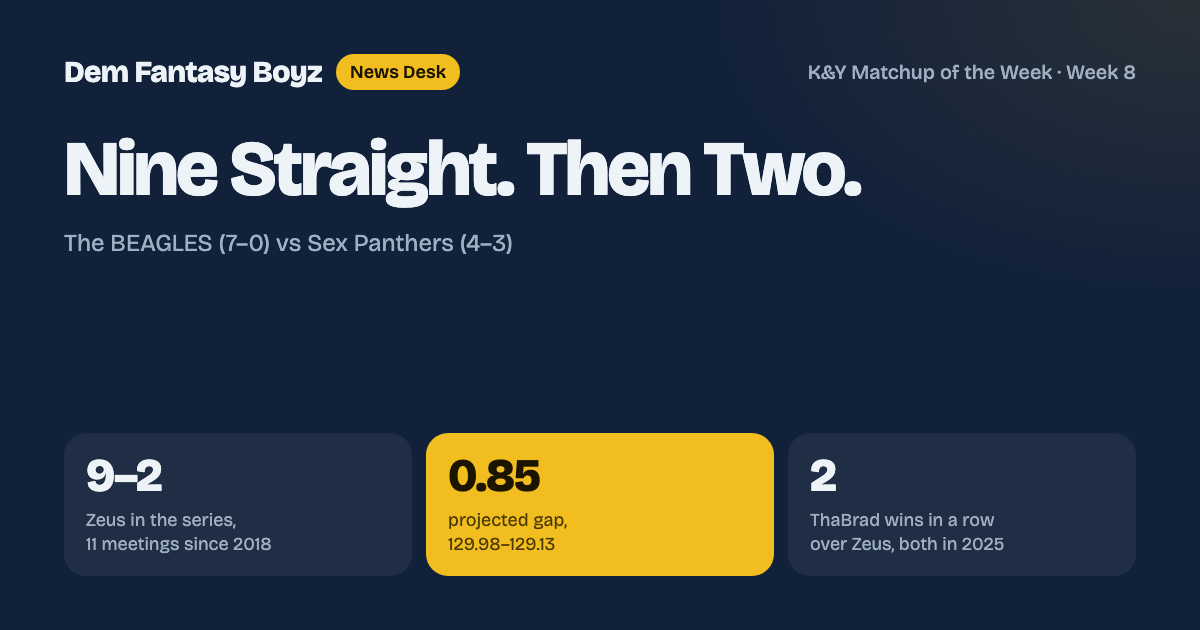
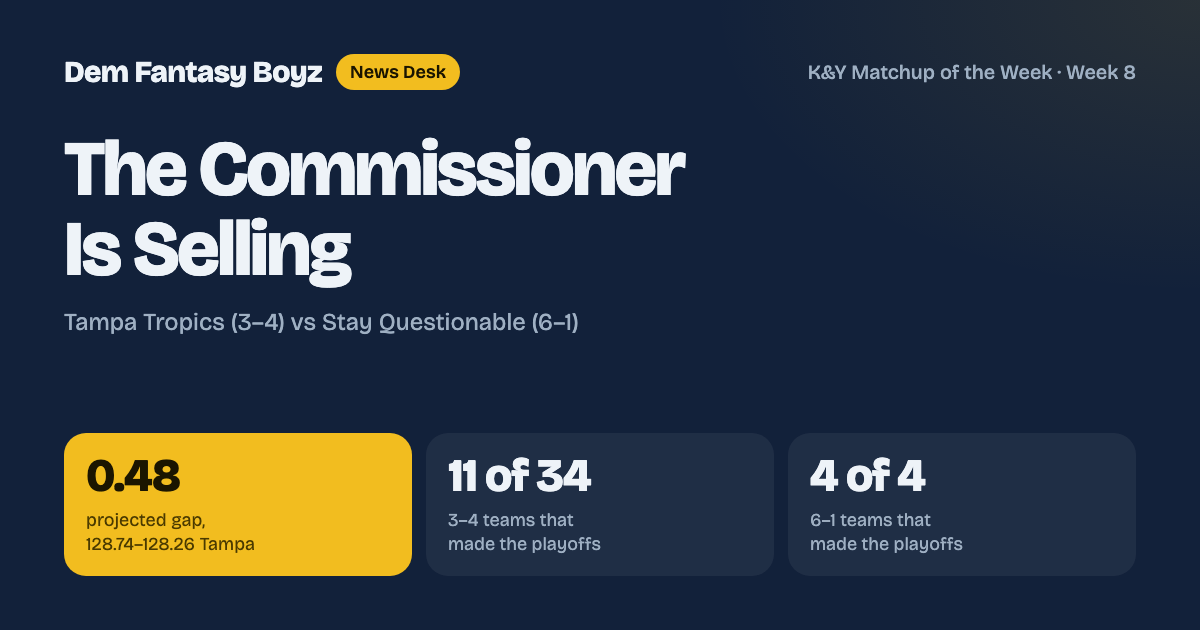
News desk: Week 8 K&Y switched to Tampa Tropics vs Stay Questionable

diff --git a/dfb/wk8-ky-matchup.html b/dfb/wk8-ky-matchup.html
@@ -4,17 +4,17 @@
 <meta charset="utf-8">
 <meta name="viewport" content="width=device-width, initial-scale=1">
 <meta name="robots" content="noindex">
-<title>Nine Straight. Then Two. &mdash; Dem Fantasy Boyz</title>
-<meta name="description" content="K&amp;Y Matchup of the Week: The BEAGLES (7-0) vs Sex Panthers (4-3), 0.85 points apart. Zeus won the first nine meetings; ThaBrad won the last two.">
+<title>The Commissioner Is Selling &mdash; Dem Fantasy Boyz</title>
+<meta name="description" content="K&amp;Y Matchup of the Week: Tampa Tropics (3-4) vs Stay Questionable (6-1), 0.48 points apart. The commissioner is selling; Deion is winning quietly.">
 <meta property="og:type" content="article">
-<meta property="og:title" content="Nine Straight. Then Two.">
-<meta property="og:description" content="K&amp;Y Matchup of the Week: The BEAGLES (7-0) vs Sex Panthers (4-3), 0.85 points apart. Zeus won the first nine meetings; ThaBrad won the last two.">
+<meta property="og:title" content="The Commissioner Is Selling">
+<meta property="og:description" content="K&amp;Y Matchup of the Week: Tampa Tropics (3-4) vs Stay Questionable (6-1), 0.48 points apart. The commissioner is selling; Deion is winning quietly.">
 <meta property="og:url" content="https://goonscrubbih.github.io/dfb/wk8-ky-matchup.html">
-<meta property="og:image" content="https://goonscrubbih.github.io/dfb/img/wk8-ky-matchup.png?v=1">
+<meta property="og:image" content="https://goonscrubbih.github.io/dfb/img/wk8-ky-matchup.png?v=2">
 <meta name="twitter:card" content="summary_large_image">
-<meta name="twitter:title" content="Nine Straight. Then Two.">
-<meta name="twitter:description" content="K&amp;Y Matchup of the Week: The BEAGLES (7-0) vs Sex Panthers (4-3), 0.85 points apart. Zeus won the first nine meetings; ThaBrad won the last two.">
-<meta name="twitter:image" content="https://goonscrubbih.github.io/dfb/img/wk8-ky-matchup.png?v=1">
+<meta name="twitter:title" content="The Commissioner Is Selling">
+<meta name="twitter:description" content="K&amp;Y Matchup of the Week: Tampa Tropics (3-4) vs Stay Questionable (6-1), 0.48 points apart. The commissioner is selling; Deion is winning quietly.">
+<meta name="twitter:image" content="https://goonscrubbih.github.io/dfb/img/wk8-ky-matchup.png?v=2">
 <meta name="theme-color" content="#EDF1F5" media="(prefers-color-scheme: light)">
 <meta name="theme-color" content="#0E1622" media="(prefers-color-scheme: dark)">
 <link rel="preconnect" href="https://fonts.googleapis.com">
@@ -33,118 +33,114 @@
 <!-- ============ CONTENT STARTS ============ -->
 <div class="hed">
   <span class="chip flag">K&amp;Y Matchup of the Week &middot; Week 8</span>
-  <h1>Nine Straight. Then Two.</h1>
-  <p class="dek">The BEAGLES are 7&ndash;0, and Zeus has beaten ThaBrad nine of the eleven times they've played. ThaBrad won both games last season. This week the projections have them <em>0.85 points</em> apart.</p>
-  <div class="by"><b>Oct 29, 2026</b><span>The BEAGLES (7&ndash;0) vs Sex Panthers (4&ndash;3)</span><span>Week 8 preview</span></div>
+  <h1>The Commissioner Is Selling</h1>
+  <p class="dek">Jarbelo started 3&ndash;0, lost four straight and put his whole team up for trade. Deion is 6&ndash;1 and says nobody's noticed. The projections have them <em>0.48 points</em> apart.</p>
+  <div class="by"><b>Oct 29, 2026</b><span>Tampa Tropics (3&ndash;4) vs Stay Questionable (6&ndash;1)</span><span>Week 8 preview</span></div>
 </div>
 
-<p>On Tuesday Jarbelo put his whole team up for sale, and Zeus told him to be realistic: "If [ThaBrad] is ahead of you in table you might be looking to next year." ThaBrad answered a minute later: "It's my year baby!"</p>
+<p>Tuesday, a few minutes after the Week 7 recap went up, the commissioner posted: "Still looking to flip the whole team." Then: "Send trades." Then he pitched ThaBrad directly: "[ThaBrad] fleece me," "I can help you win," "Whatever you want man," and finally "Down to trade everyone."</p>
 
-<p>Zeus wasn't really insulting him. He meant it as a compliment, and added: "he acc has heavy hitters w CD Higgins Kittle." Then the catch: "Needs to sort out that RB situation tho." Sunday, Zeus gets to test both claims himself. The unbeaten team plays a 4&ndash;3 team that has won three of its last four, and the projections can't separate them.</p>
+<p>The same minute, Deion posted about his own team: "Your boy sliding up that leader board under the radar." On Sunday the two of them play each other, and the projections can't pick a winner.</p>
 
 <div class="stats">
-  <div class="stat flag"><b>9&ndash;2</b><span>Zeus in the all-time series, 11 meetings since 2018</span></div>
-  <div class="stat"><b>0.85</b><span>projected gap, 129.98&ndash;129.13 BEAGLES (Sleeper and ESPN averaged)</span></div>
-  <div class="stat"><b>0.03</b><span>between the two Panthers playing tonight: Coker 15.24, McMillan 15.21</span></div>
-  <div class="stat"><b>10.28</b><span>Zeus's smallest winning margin this season</span></div>
+  <div class="stat flag"><b>0.48</b><span>projected gap, 128.74&ndash;128.26 Tampa (Sleeper and ESPN averaged)</span></div>
+  <div class="stat"><b>11 of 34</b><span>teams that were 3&ndash;4 after Week 7 and made the playoffs, 2016&ndash;2025</span></div>
+  <div class="stat"><b>4 of 4</b><span>teams that were 6&ndash;1 after Week 7 and made the playoffs</span></div>
+  <div class="stat"><b>47</b><span>Tampa roster moves this season, the most in the league. Deion: 17.</span></div>
 </div>
 
 <h2>The fight card</h2>
 <div class="card-tbl">
   <table class="tbl">
-    <thead><tr><th>Slot</th><th>The BEAGLES</th><th class="r">Proj</th><th>Sex Panthers</th><th class="r">Proj</th></tr></thead>
+    <thead><tr><th>Slot</th><th>Tampa Tropics</th><th class="r">Proj</th><th>Stay Questionable</th><th class="r">Proj</th></tr></thead>
     <tbody>
-      <tr><td>QB</td><td>J. Allen</td><td class="r">24.1</td><td>J. Brissett</td><td class="r">17.1</td></tr>
-      <tr><td>RB</td><td>J. Warren</td><td class="r">15.4</td><td>J. Cook</td><td class="r">17.5</td></tr>
-      <tr><td>RB</td><td>O. Gordon</td><td class="r">13.7</td><td>B. Corum</td><td class="r">9.5</td></tr>
-      <tr><td>WR</td><td>J. Coker &dagger;</td><td class="r">15.2</td><td>C. Lamb</td><td class="r">21.2</td></tr>
-      <tr><td>WR</td><td>DJ Moore (Q)</td><td class="r">14.1</td><td>T. McMillan &dagger;</td><td class="r">15.2</td></tr>
-      <tr><td>TE</td><td>D. Goedert</td><td class="r">10.1</td><td>P. Freiermuth</td><td class="r">9.0</td></tr>
-      <tr><td>FLEX</td><td>J. Coleman</td><td class="r">8.8</td><td>T. Higgins</td><td class="r">15.8</td></tr>
-      <tr><td>FLEX</td><td>R. Stevenson</td><td class="r">11.9</td><td>C. Godwin</td><td class="r">9.6</td></tr>
-      <tr><td>K</td><td>W. Reichard</td><td class="r">9.3</td><td>T. Bass</td><td class="r">8.0</td></tr>
-      <tr><td>DEF</td><td>Seattle</td><td class="r">7.3</td><td>NY Jets</td><td class="r">6.4</td></tr>
-      <tr><td class="team">Total</td><td></td><td class="r team">129.98</td><td></td><td class="r team">129.13</td></tr>
-      <tr><td><em>Bench</em></td><td><em>D. Smith (Q)</em></td><td class="r"><em>13.5</em></td><td><em>R. Dowdle</em></td><td class="r"><em>9.1</em></td></tr>
+      <tr><td>QB</td><td>D. Prescott</td><td class="r">21.1</td><td>J. Burrow</td><td class="r">21.8</td></tr>
+      <tr><td>RB</td><td>B. Hall (Q)</td><td class="r">13.3</td><td>B. Robinson</td><td class="r">20.1</td></tr>
+      <tr><td>RB</td><td>B. Tuten</td><td class="r">14.5</td><td>J. Williams</td><td class="r">19.4</td></tr>
+      <tr><td>WR</td><td>C. Tate (Q)</td><td class="r">12.8</td><td>A. Williams</td><td class="r">8.0</td></tr>
+      <tr><td>WR</td><td>M. Golden (Q) &dagger;</td><td class="r">14.4</td><td>DK Metcalf</td><td class="r">11.9</td></tr>
+      <tr><td>TE</td><td>S. LaPorta</td><td class="r">10.9</td><td>M. Andrews</td><td class="r">9.3</td></tr>
+      <tr><td>FLEX</td><td>L. Burden</td><td class="r">12.9</td><td>B. Strange</td><td class="r">10.4</td></tr>
+      <tr><td>FLEX</td><td>J. Love (Q)</td><td class="r">10.5</td><td>Q. Judkins</td><td class="r">10.7</td></tr>
+      <tr><td>K</td><td>S. Shrader</td><td class="r">9.1</td><td>T. Loop</td><td class="r">7.8</td></tr>
+      <tr><td>DEF</td><td>New England</td><td class="r">9.2</td><td>Pittsburgh</td><td class="r">8.9</td></tr>
+      <tr><td class="team">Total</td><td></td><td class="r team">128.74</td><td></td><td class="r team">128.26</td></tr>
+      <tr><td><em>Bench</em></td><td><em>M. Wilson (Q)</em></td><td class="r"><em>14.2</em></td><td><em>K. Bourne</em></td><td class="r"><em>8.9</em></td></tr>
     </tbody>
   </table>
 </div>
-<p class="fcap">Lineups as set at 11:50 a.m. Thursday. Each projection is the average of Sleeper's and ESPN's Week 8 PPR projections; kickers and defenses use Sleeper's only. &dagger; Plays tonight, Carolina at Green Bay. Rows round to one decimal; totals don't. (Q) is questionable. Bench row is each team's best healthy backup. On bye: McCaffrey for Zeus; Kittle, Stroud and Marvin Harrison Jr. for ThaBrad.</p>
+<p class="fcap">Lineups as set at 12:35 p.m. Thursday. Each projection is the average of Sleeper's and ESPN's Week 8 PPR projections; kickers and defenses use Sleeper's only. Sleeper's projections alone have Stay Questionable ahead, 127.53 to 126.91. &dagger; Plays tonight, Carolina at Green Bay. Rows round to one decimal; totals don't. (Q) is questionable. Bench row is each team's best backup. Deion's Chris Olave, Kaelon Black and Tyler Shough are on bye, and Mike Evans is on IR.</p>
 
 <h2>The backstory</h2>
 
-<p>This series used to be one-sided. <strong>Zeus won the first nine meetings, from Week 5 of 2018 to Week 6 of 2024.</strong> Some were blowouts: 176.60 to 99.20 in 2018, 191.42 to 141.72 in 2022, and 133.60 to 67.04 that December. The last one was the closest game they've ever played. In Week 6 of 2024 Zeus won <strong>107.96 to 107.56, by 0.40</strong>.</p>
+<p>They have played eleven times since 2016, and <strong>Jarbelo leads the series 7&ndash;4</strong>. Most of the games were lopsided: 177.04 to 111.52 in 2020, 167.20 to 118.08 for Deion in 2018. The closest was a 2022 consolation game in Week 16, 77.50 to 72.94, which neither of them should remember fondly. Last season Jarbelo won 174.50 to 125.60 on his way to a 12&ndash;2 record.</p>
 
 <div class="card-tbl">
   <table class="tbl">
-    <thead><tr><th>Meeting</th><th class="r">BEAGLES</th><th class="r">Panthers</th><th class="r">Winner</th></tr></thead>
+    <thead><tr><th>Last five</th><th class="r">Tampa</th><th class="r">Deion</th><th class="r">Winner</th></tr></thead>
     <tbody>
-      <tr><td>2018 Wk 5</td><td class="r team">176.60</td><td class="r">99.20</td><td class="r">Zeus by 77.40</td></tr>
-      <tr><td>2019 Wk 6</td><td class="r team">137.22</td><td class="r">130.42</td><td class="r">Zeus by 6.80</td></tr>
-      <tr><td>2020 Wk 6</td><td class="r team">104.24</td><td class="r">88.32</td><td class="r">Zeus by 15.92</td></tr>
-      <tr><td>2021 Wk 2</td><td class="r team">146.90</td><td class="r">129.42</td><td class="r">Zeus by 17.48</td></tr>
-      <tr><td>2021 Wk 13</td><td class="r team">116.94</td><td class="r">99.78</td><td class="r">Zeus by 17.16</td></tr>
-      <tr><td>2022 Wk 2</td><td class="r team">191.42</td><td class="r">141.72</td><td class="r">Zeus by 49.70</td></tr>
-      <tr><td>2022 Wk 13</td><td class="r team">133.60</td><td class="r">67.04</td><td class="r">Zeus by 66.56</td></tr>
-      <tr><td>2023 Wk 7</td><td class="r team">154.46</td><td class="r">120.46</td><td class="r">Zeus by 34.00</td></tr>
-      <tr><td>2024 Wk 6</td><td class="r team">107.96</td><td class="r">107.56</td><td class="r">Zeus by 0.40</td></tr>
-      <tr><td class="team">2025 Wk 3</td><td class="r">95.86</td><td class="r team">133.22</td><td class="r team">ThaBrad by 37.36</td></tr>
-      <tr><td class="team">2025 Wk 14</td><td class="r">65.80</td><td class="r team">109.76</td><td class="r team">ThaBrad by 43.96</td></tr>
+      <tr><td>2022 Wk 7</td><td class="r">99.14</td><td class="r team">128.50</td><td class="r">Deion by 29.36</td></tr>
+      <tr><td>2022 Wk 16 (consolation)</td><td class="r team">77.50</td><td class="r">72.94</td><td class="r">Jarbelo by 4.56</td></tr>
+      <tr><td>2023 Wk 6</td><td class="r team">124.24</td><td class="r">115.92</td><td class="r">Jarbelo by 8.32</td></tr>
+      <tr><td>2024 Wk 8</td><td class="r">101.94</td><td class="r team">132.96</td><td class="r">Deion by 31.02</td></tr>
+      <tr><td>2025 Wk 10</td><td class="r team">174.50</td><td class="r">125.60</td><td class="r">Jarbelo by 48.90</td></tr>
     </tbody>
   </table>
 </div>
-<p class="fcap">Every meeting between the two, ESPN (2018&ndash;2021) and Sleeper (2022&ndash;2025). All eleven were regular-season games. ThaBrad joined the league in 2018.</p>
+<p class="fcap">ESPN (2016&ndash;2021) and Sleeper (2022&ndash;2025). The six ESPN meetings split 4&ndash;2 Jarbelo.</p>
 
-<p>Then came 2025. ThaBrad won in Week 3 by 37, and won again in Week 14, the last week of the regular season, holding Zeus to 65.80. Those are the only two games ThaBrad has ever won in this series, and he won them both by more than Zeus beat him by in six of his nine wins.</p>
+<p>Then there's Matthew Golden. Deion had him in September and cut him on Sept 8, two days before the season opened, for Dylan Sampson. Tbunzz picked Golden up the next day. When Golden broke out, Deion posted on Sept 25: "I'm feeling GREAT about dropping Matthew golden before week 1 &#x1F921;." Jarbelo admitted he'd passed on him too: "I remember looking at golden on the waiver wire and thinking nah I already have reed lol."</p>
 
-<p>The two managers have had very different careers. Zeus has two titles, 2017 on ESPN and 2022 on Sleeper, and was the runner-up in 2023. ThaBrad went 20&ndash;36 over the four Sleeper seasons, the worst record in the league, and <strong>hasn't made the playoffs since 2019.</strong> He is 4&ndash;3 now, the same number of wins he finished with in all of 2024.</p>
+<p>On Oct 23 Jarbelo got Golden anyway, in the three-way deal with Tbunzz and JBV. Jarbelo sent out Justin Jefferson, T.J. Hockenson and Zonovan Knight, and got back Sam LaPorta and Golden. <strong>Golden starts for Tampa against the man who cut him</strong>, and he plays first: tonight at Green Bay, questionable with a shoulder injury. Sampson is on Deion's bench, also questionable.</p>
 
-<h2>The BEAGLES: unbeaten, and still asking for trades</h2>
+<h2>Tampa Tropics: everything must go</h2>
 
-<p>Zeus is 7&ndash;0, with the most points in the league (1,004.1) and a 63&ndash;14 record against everyone. <strong>His smallest winning margin is 10.28</strong>, last week against Buttons. In the chat he still talks like a team that needs help. Tuesday: "Still looking for that 2 fa 1," "Got plenty RBs," "Make me shit deal brooooos." Wednesday night: "Send trades," then "Actually trying to make a smaller play!"</p>
+<p>Over the last two seasons Jarbelo has been the best regular-season manager in the league, <strong>23&ndash;5 across 2024 and 2025</strong>. Both years he lost in the semifinal and then the third-place game. This year he started 3&ndash;0, scoring 144.90, 167.46 and 134.60. Then he lost four straight, scoring 101.90, 83.72, 113.42 and 89.78, and was last in the league twice. He's 29&ndash;48 against everyone, 4th-lowest in points, and has made 47 roster moves, more than anyone else in the league.</p>
 
-<p>He does have plenty of RBs. Jaylen Warren, Ollie Gordon, Rhamondre Stevenson and Jonah Coleman are all starting. McCaffrey is on bye with a calf injury. Coleman is the one Zeus keeps bringing up. On Tuesday: "Jonah Coleman heating up!!! &hellip; Check the snap share if you dare muahahaha." At 7:04 this morning: "Jonah Coleman RB1 on Broncos depth chart &#x1F5FF;" The projections still have Coleman at 8.8, the lowest of any running back or receiver in Zeus's lineup.</p>
+<p>History says Week 8 matters for him. <strong>Of 34 teams that were 3&ndash;4 after seven weeks, 11 made the playoffs.</strong> Jarbelo is one of them: 3&ndash;4 in 2021, playoffs anyway. He was 3&ndash;4 in 2016 and 2022 too, and missed both times. Win Sunday and he's 4&ndash;4; half the teams at 4&ndash;4 made it (17 of 34). Lose and he's 3&ndash;5, and only 7 of 27 of those made it.</p>
 
 <div class="pull">
-  <p>"AI report thoroughly sucked me"</p>
-  <cite>Zeus, Tuesday, on the Week 7 recap. Then: "Feeling great!" and "The mountain &#x1F3D4;&#xFE0F;"</cite>
+  <p>"I want to fire Bowles and get Jeremiah smith so I hope we stay bad"</p>
+  <cite>Jarbelo, Oct 7, about the Buccaneers. He might not have meant the Tropics too.</cite>
 </div>
 
-<p>Zeus's two weak spots are both on the bench. DeVonta Smith (13.5) and Tyler Warren (11.3) both project higher than Coleman, but both are questionable, and so is DJ Moore, who starts. Moore and Josh Allen are both Bills now, so <strong>Zeus has 38.3 projected points in Buffalo against Baltimore.</strong> The other weak spot is his schedule. Seattle's defense against Chicago on Monday night is the last game in this matchup, and Zeus is the only one with a player in it.</p>
+<p>The lineup he's selling still projects to win. Three of the "Could-Bees" Zeus named on draft night are still starting: Dak, Love and Breece. JSN went to Peeka on Oct 7, and Pitts was dropped in September. Breece Hall, Jeremiyah Love, Carnell Tate and Golden are all questionable, <strong>four of his ten starters</strong>. Michael Wilson (14.2, also questionable) is his best backup. Tampa's last player is Luther Burden, Chicago at Seattle on Monday night.</p>
 
-<h2>Sex Panthers: the stars are there, the running backs aren't</h2>
+<h2>Stay Questionable: under the radar, as advertised</h2>
 
-<p>ThaBrad is 4&ndash;3 and has won three of his last four. One of those was the 191.32 he put on Rage in Week 4, then the fourth-best score of the Sleeper era ("Can't believe I wasted two 40 bergers on rage"). Since then he's beaten JBV and Jarbelo by more than 40 each. He is 40&ndash;37 against everyone, a .519 team that's finally winning the games it should.</p>
+<p>Deion is 6&ndash;1 with 949.1 points, fourth in the league, and 51&ndash;26 against everyone. His only loss was in Week 2, to traffikhan. He's won five straight since. He was right on Tuesday: Zeus and Buttons get the attention, and Deion keeps quietly winning.</p>
 
-<p>Zeus was right about the stars and the backfield. CeeDee Lamb (21.2), Tee Higgins (15.8) and Tetairoa McMillan (15.2) project 52.2 together. Zeus's two starting receivers project 29.4. Kittle, the third heavy hitter Zeus named, is on bye. Next to James Cook is Blake Corum at 9.5. ThaBrad described him Tuesday: "Corum is just one kyren shredded chicken from becoming CMC." Kyren Williams isn't hurt and is still first on the Rams depth chart, so Corum is projected 9.5.</p>
+<p>This is new for him. In the four Sleeper seasons he went 27&ndash;29 and never finished better than 8&ndash;6. <strong>He has made the playoffs three times in ten years</strong>: 2017 and 2020 on ESPN, 2023 on Sleeper. Every team that was 6&ndash;1 after Week 7 made the playoffs, four of four. With a win he's 7&ndash;1, and all four of those made it too.</p>
 
-<p>The quarterback is the other problem, and ThaBrad saw it coming on draft weekend: "wish I took Caleb over hurts. As soon as I pressed the button I regretted." Jalen Hurts is out for the season and C.J. Stroud is on bye, so ThaBrad is starting Jacoby Brissett (17.1) against Josh Allen (24.1). That's a 7-point gap at quarterback, about eight times the projected margin. Brissett's Cardinals play in Dallas, so ThaBrad has his quarterback and CeeDee Lamb on opposite sides of the same game.</p>
+<p>The team name is a joke, and the roster has earned it. On Oct 17 Deion asked the chat, "This has to be the worst year yet for injuries right?" Then: "Am I really about to have to start Brandin Cooks in 2026 &#x1F440;." Then Mike Evans: "Mike with the surprise Achilles injury on the report. Hope it's not too serious." Evans is on IR. The next day: "Fuk man judkins out an didn't see." Deion cut Cooks on Tuesday. This week Chris Olave, Kaelon Black ("One of my guys this season") and his backup quarterback are all on bye.</p>
 
-<h2>Three games that decide it</h2>
+<p>And yet: <strong>the team called Stay Questionable has no questionable starters.</strong> Tampa has four. Deion's strength is his backfield: Bijan Robinson (20.1) and Javonte Williams (19.4) project 39.5 together, 11.6 more than Hall and Tuten. His weakness is receiver. Antonio Williams (8.0) starts because Evans and Olave can't, and Brenton Strange is in a flex as his second tight end.</p>
 
-<p><strong>Tonight, Carolina at Green Bay.</strong> Each of them has a Panthers receiver: Jalen Coker for Zeus at 15.24, Tetairoa McMillan for ThaBrad at 15.21. Whoever leads Friday morning will owe it to which Carolina receiver gets the targets.</p>
+<h2>Where it gets decided</h2>
 
-<p><strong>Sunday, Baltimore at Buffalo.</strong> Allen and Moore for Zeus (38.3), Cook and Bass for ThaBrad (25.5). If the Bills score a lot, both of them win this game. If Allen throws the touchdowns and Cook doesn't get the goal-line carries, Zeus wins it.</p>
+<p><strong>Tonight, Carolina at Green Bay.</strong> Golden, if he plays. Nobody else in this matchup plays Thursday.</p>
 
-<p><strong>Sunday, Cleveland at Pittsburgh.</strong> Jaylen Warren (15.4) for Zeus against Pat Freiermuth (9.0) for ThaBrad, with Rico Dowdle, another Steeler, on ThaBrad's bench.</p>
+<p><strong>Sunday, Arizona at Dallas.</strong> The same offense, split between them. Dak Prescott (21.1) is Jarbelo's quarterback and Javonte Williams (19.4) is Deion's running back. Jeremiyah Love, Arizona's back, starts for Jarbelo too. If the Cowboys pass, Tampa gets the points. If they run, Deion does.</p>
+
+<p><strong>Sunday, Cleveland at Pittsburgh.</strong> Deion plays against himself. He starts DK Metcalf and the Steelers defense, and also Quinshon Judkins, Cleveland's running back. Every Judkins touchdown costs his own defense points.</p>
 
 <h2>From the group chat</h2>
 <div class="pull">
-  <p>"Oh I'm locked in baby. Yall are fucked"</p>
-  <cite>ThaBrad, draft day, Sept 5. He was 1&ndash;2 after three weeks. He's 4&ndash;3 now.</cite>
+  <p>"Shit who doesn't need WR right now?"</p>
+  <cite>Deion, Oct 17. Ten days later the commissioner was offering all of his.</cite>
 </div>
-<p><strong>Deion, Wednesday night,</strong> when Zeus tagged Schoolboi to "make something happen": "Don't give em JSN"</p>
-<p><strong>ThaBrad, Sept 17,</strong> the first time this desk wrote him off: "Not the computer! How will I recover / I'm unplugging it at work tomorrow"</p>
+<p><strong>Jarbelo, Oct 7,</strong> on the JSN trade: "So did I fleece or get fleeced?" Deion: "seems pretty even."</p>
+<p><strong>Deion, Wednesday night,</strong> when Zeus went looking for a trade with Schoolboi: "Don't give em JSN"</p>
 
 <h2>The call</h2>
 
-<p>Combined, the two lineups project 259.11 points, and the gap is 0.85. Sleeper alone has it 130.27 to 129.79, a 0.48 gap. It's a coin flip either way.</p>
+<p>The two sources disagree. The Sleeper and ESPN average has Tampa by 0.48. Sleeper alone has Deion by 0.62.</p>
 
-<p><strong>The desk picks the BEAGLES, barely.</strong> It isn't about the series. It's about who has backups. Moore and Smith are both questionable, but Zeus has Smith, Tyler Warren, Josh Downs and Kirk Cousins on his bench. If ThaBrad loses a starter, he has Dowdle at 9.1. Zeus also has the last player of the week, Seattle's defense on Monday night. ThaBrad has the better receivers, and he won the last two meetings by 37 and 44. The desk has picked right three weeks in a row. If ThaBrad wins this, Zeus has his first loss, and it was "my year" after all.</p>
+<p><strong>The desk picks Stay Questionable.</strong> Four of Tampa's starters are questionable, and Jarbelo has averaged 97.2 over the last four weeks, 31.5 below what this lineup projects. Deion has no injury tags in his lineup and the two best running backs in the game. If Golden plays well tonight against the man who cut him, Jarbelo might call off the sale. If not, expect more trade offers. The desk has picked right three weeks in a row.</p>
 
 <div class="method">
   <h2>How this was put together</h2>
-  <p>Each player's projection is the average of Sleeper's and ESPN's Week 8 PPR projections (kickers and defenses use Sleeper's only), summed over each starting lineup as set at 11:50 a.m. ET Thursday, Oct 29. Sleeper's projections alone have it 130.27 to 129.79. Injury tags and bye weeks are Sleeper's at the same time. The series covers every meeting between the two managers on ESPN (2018&ndash;2021) and Sleeper (2022&ndash;2025), eleven in all, every one in the regular season. ThaBrad's career record is from the Sleeper years (2022&ndash;2025). Margins and all-play records are 2026 Weeks 1&ndash;7 final scores. Quotes are from the league chat, verbatim; a real name inside a quote is replaced with the manager's nickname in brackets.</p>
+  <p>Each player's projection is the average of Sleeper's and ESPN's Week 8 PPR projections (kickers and defenses use Sleeper's only), summed over each starting lineup as set at 12:35 p.m. ET Thursday, Oct 29. Sleeper's projections alone have it 127.53 to 126.91 for Stay Questionable. Injury tags and bye weeks are Sleeper's at the same time. The series covers every meeting between the two managers on ESPN (2016&ndash;2021) and Sleeper (2022&ndash;2025), eleven in all. Playoff odds count every team's record after Weeks 7 and 8 of each regular season from 2016 to 2025 and whether it reached the six-team playoff bracket. Roster-move counts are completed 2026 transactions, trades included. Quotes are from the league chat, verbatim; a real name inside a quote is replaced with the manager's nickname in brackets.</p>
 </div>
 <!-- ============ CONTENT ENDS ============ -->
 

diff --git a/dfb/index.html b/dfb/index.html
@@ -10,7 +10,7 @@
 <meta property="og:title" content="Dem Fantasy Boyz — News Desk">
 <meta property="og:description" content="Weekly recaps, the Matchup of the Week, and live scores for the Dem Fantasy Boyz league.">
 <meta property="og:url" content="https://goonscrubbih.github.io/dfb/">
-<meta property="og:image" content="https://goonscrubbih.github.io/dfb/img/wk8-ky-matchup.png?v=1">
+<meta property="og:image" content="https://goonscrubbih.github.io/dfb/img/wk8-ky-matchup.png?v=2">
 <meta name="theme-color" content="#EDF1F5" media="(prefers-color-scheme: light)">
 <meta name="theme-color" content="#0E1622" media="(prefers-color-scheme: dark)">
 <link rel="preconnect" href="https://fonts.googleapis.com">
@@ -173,11 +173,11 @@ a.row:hover{transform:translateX(3px)}
 <!-- ============ LEAD STORY ============ -->
 <section class="rise" aria-label="Latest story">
   <a class="lead" href="wk8-ky-matchup.html">
-    <div class="art"><img src="img/wk8-ky-matchup.png?v=1" alt="" loading="eager" width="1200" height="630"></div>
+    <div class="art"><img src="img/wk8-ky-matchup.png?v=2" alt="" loading="eager" width="1200" height="630"></div>
     <div class="cap">
       <span class="chip flag">Matchup of the Week</span>
-      <h3>Nine Straight. Then Two.</h3>
-      <p>The 7&ndash;0 BEAGLES vs ThaBrad's Sex Panthers, 0.85 points apart. Zeus won the first nine meetings. ThaBrad won the last two.</p>
+      <h3>The Commissioner Is Selling</h3>
+      <p>Jarbelo started 3&ndash;0, lost four straight and put his whole team up for trade. Deion is 6&ndash;1 and winning quietly. Tampa vs Stay Questionable, 0.48 points apart.</p>
       <span class="go">Read the preview <i>&rarr;</i></span>
       <span class="date">Oct 29 &middot; Week 8 preview</span>
     </div>
